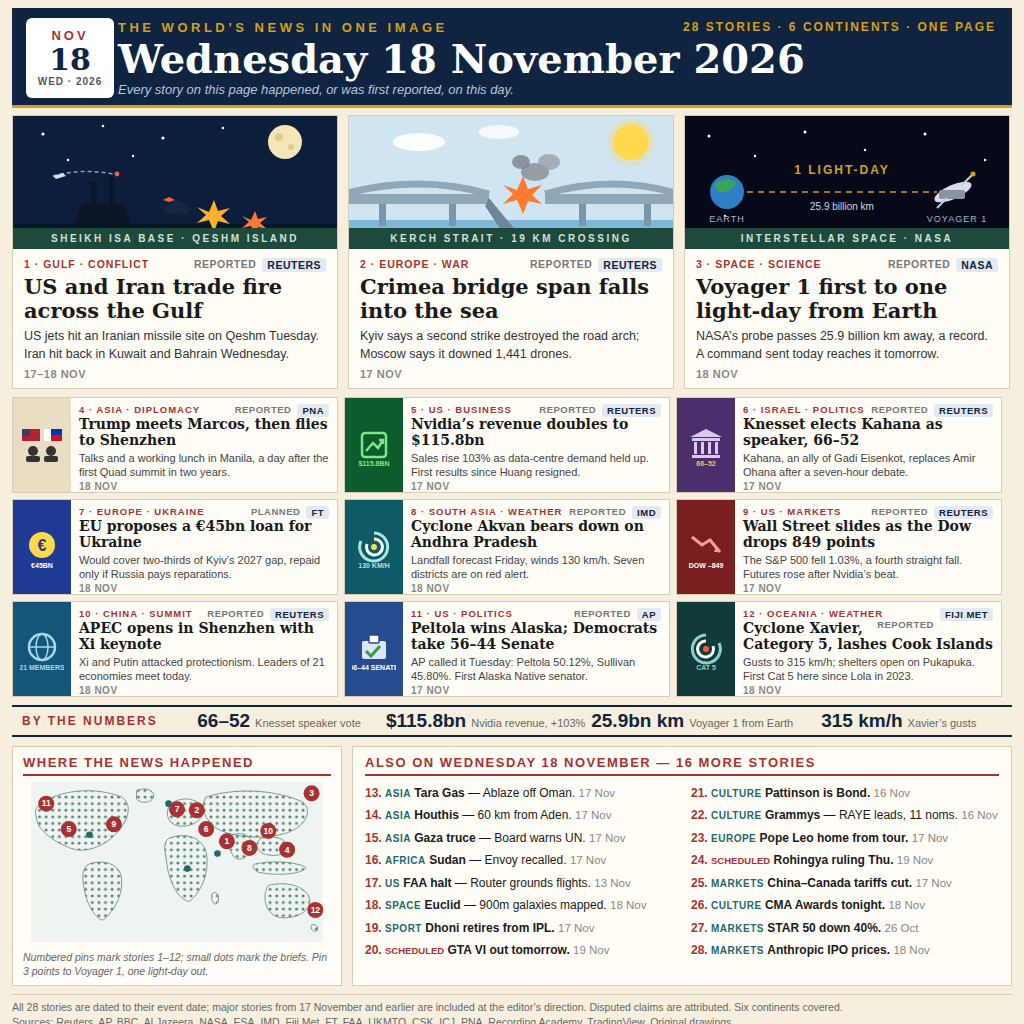
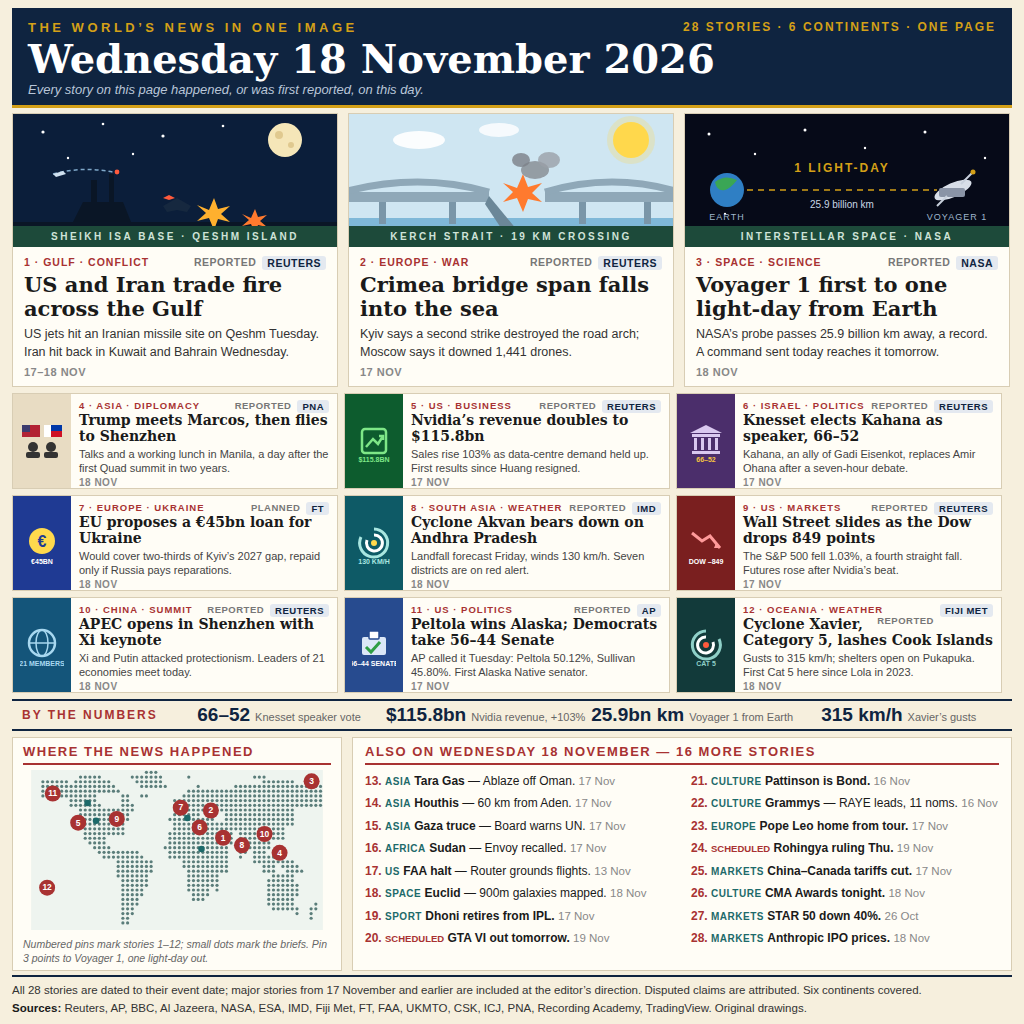
Redraw the world map; readable footer; remove masthead calendar block

Changed region(s): [[0.0, 0.0, 1.0, 1.0]]

diff --git a/page.html b/page.html
@@ -7,18 +7,14 @@ body { background:#f6efdd; font-family:'Helvetica Neue', Arial, 'DejaVu Sans', s
 .page { width:1024px; height:1024px; padding:8px 12px 4px; }
 .serif { font-family:Georgia, 'DejaVu Serif', 'Noto Serif', serif; }
 /* ---------- masthead ---------- */
-.mast { background:#0f2440; color:#fff; height:100px; padding:12px 16px 8px 14px; position:relative; border-bottom:3px solid #d4a017; }
-.cal { position:absolute; left:14px; top:10px; width:88px; height:80px; background:#fff; border-radius:6px; text-align:center; color:#0f2440; display:flex; flex-direction:column; align-items:center; justify-content:center; padding:5px 0; }
-.cal .m { color:#a83232; font-weight:800; font-size:13px; letter-spacing:3px; line-height:1.25; }
-.cal .d { font-size:30px; font-weight:800; line-height:1.05; }
-.cal .y { font-size:10px; font-weight:700; letter-spacing:1px; color:#555; line-height:1.25; }
-.mast-in { margin-left:92px; }
+.mast { background:#0f2440; color:#fff; height:100px; padding:12px 16px 8px 16px; position:relative; border-bottom:3px solid #d4a017; }
+.mast-in { }
 .kick { color:#d4a017; font-size:13px; font-weight:800; letter-spacing:3.5px; }
 .kick .cnt { float:right; color:#d4a017; font-size:12px; letter-spacing:2px; }
 .date { font-size:40px; font-weight:800; line-height:1.08; margin-top:2px; }
 .sub { font-style:italic; color:#b9c6d8; font-size:13px; margin-top:2px; }
 /* ---------- leads ---------- */
-.leads { display:flex; gap:10px; margin-top:7px; }
+.leads { display:flex; gap:10px; margin-top:5px; }
 .lead { width:326px; background:#fffdf6; border:1px solid #d8cdb4; }
 .lead .art { width:324px; height:112px; display:block; }
 .cap { background:#1d4a3a; color:#cfe3d8; font-size:10px; letter-spacing:2.5px; text-align:center; padding:5px 0; font-weight:700; }
@@ -30,7 +26,7 @@ body { background:#f6efdd; font-family:'Helvetica Neue', Arial, 'DejaVu Sans', s
 .lead p { font-size:12.5px; line-height:1.38; color:#333; }
 .dt { font-size:11px; font-weight:800; color:#888; margin-top:5px; letter-spacing:0.5px; }
 /* ---------- secondaries ---------- */
-.sec { display:flex; flex-wrap:wrap; gap:6px; margin-top:8px; }
+.sec { display:flex; flex-wrap:wrap; gap:6px; margin-top:6px; }
 .cell { width:326px; height:96px; background:#fffdf6; border:1px solid #d8cdb4; display:flex; }
 .chip { width:58px; height:94px; flex:none; display:flex; align-items:center; justify-content:center; }
 .cell .tx { padding:6px 8px 5px 8px; flex:1; min-width:0; }
@@ -39,18 +35,18 @@ body { background:#f6efdd; font-family:'Helvetica Neue', Arial, 'DejaVu Sans', s
 .cell p { font-size:11px; line-height:1.3; color:#444; }
 .cell .dt { margin-top:2px; font-size:10px; }
 /* ---------- numbers ---------- */
-.nums { display:flex; align-items:center; border-top:2px solid #0f2440; border-bottom:2px solid #0f2440; margin-top:8px; height:32px; padding:0 10px; }
+.nums { display:flex; align-items:center; border-top:2px solid #0f2440; border-bottom:2px solid #0f2440; margin-top:6px; height:32px; padding:0 10px; }
 .nums .lbl { color:#a83232; font-weight:800; font-size:12px; letter-spacing:2px; margin-right:18px; }
 .num { flex:1; text-align:center; }
 .num b { font-size:19px; color:#0f2440; }
 .num span { font-size:11px; color:#666; margin-left:5px; }
 /* ---------- bottom ---------- */
-.bot { display:flex; gap:10px; margin-top:9px; }
-.mapbox { width:330px; background:#fffdf6; border:1px solid #d8cdb4; padding:8px 10px 7px; }
-.mapbox h4, .briefs h4 { color:#a83232; font-size:13px; letter-spacing:1.5px; border-bottom:2px solid #a83232; padding-bottom:4px; margin-bottom:6px; }
-.mapcap { font-size:10.5px; color:#666; font-style:italic; margin-top:4px; line-height:1.35; }
+.bot { display:flex; gap:10px; margin-top:6px; }
+.mapbox { width:330px; background:#fffdf6; border:1px solid #d8cdb4; padding:6px 10px 5px; }
+.mapbox h4, .briefs h4 { color:#a83232; font-size:13px; letter-spacing:1.5px; border-bottom:2px solid #a83232; padding-bottom:4px; margin-bottom:5px; }
+.mapcap { font-size:10.5px; color:#666; font-style:italic; margin-top:3px; line-height:1.35; }
 .cont { font-size:12px; font-weight:800; color:#0f2440; margin-top:5px; }
-.briefs { flex:1; background:#fffdf6; border:1px solid #d8cdb4; padding:8px 12px 7px; }
+.briefs { flex:1; background:#fffdf6; border:1px solid #d8cdb4; padding:6px 12px 5px; }
 .bcols { display:flex; gap:18px; }
 .bcol { flex:1; }
 .brief { font-size:12px; line-height:1.35; padding:3px 0; white-space:nowrap; } border-bottom:1px solid #eee3cb; }
@@ -61,12 +57,12 @@ body { background:#f6efdd; font-family:'Helvetica Neue', Arial, 'DejaVu Sans', s
 .brief .dd { color:#888; font-size:11.5px; }
 .brief .sch { color:#a83232; font-weight:800; font-size:9.5px; }
 /* ---------- footer ---------- */
-.foot { margin-top:8px; font-size:10.5px; color:#666; line-height:1.45; border-top:1px solid #d8cdb4; padding-top:5px; }
+.foot { margin-top:4px; font-size:11.5px; color:#333; line-height:1.55; border-top:2px solid #0f2440; padding-top:5px; }
+.foot b { color:#1a1a1a; }
 </style></head>
 <body><div class="page">
 
 <div class="mast">
-  <div class="cal"><div class="m">NOV</div><div class="d serif">18</div><div class="y">WED · 2026</div></div>
   <div class="mast-in">
     <div class="kick">THE WORLD&rsquo;S NEWS IN ONE IMAGE <span class="cnt">28 STORIES &middot; 6 CONTINENTS &middot; ONE PAGE</span></div>
     <div class="date serif">Wednesday 18 November 2026</div>
@@ -211,37 +207,10 @@ body { background:#f6efdd; font-family:'Helvetica Neue', Arial, 'DejaVu Sans', s
   <div class="mapbox">
     <h4>WHERE THE NEWS HAPPENED</h4>
     <svg width="308" height="160" viewBox="0 0 310 170" xmlns="http://www.w3.org/2000/svg">
-      <defs><pattern id="dots" width="7" height="7" patternUnits="userSpaceOnUse"><circle cx="2" cy="2" r="1.6" fill="#5a7d7a"/></pattern></defs>
       <rect width="310" height="170" fill="#eef4ef"/>
-      <g fill="url(#dots)" stroke="#5a7d7a" stroke-width="0.8">
-        <path d="M8,25 C30,7 70,5 96,16 C108,23 104,40 92,53 C80,67 60,76 44,71 C26,65 8,52 6,40 C4,32 4,29 8,25 Z"/>
-        <path d="M112,9 C122,5 132,9 130,16 C128,23 116,23 112,18 Z"/>
-        <path d="M62,87 C78,82 94,87 96,102 C98,120 88,138 76,147 C66,143 58,127 56,111 C54,100 54,91 62,87 Z"/>
-        <path d="M148,23 C162,14 180,18 182,29 C184,40 172,47 160,47 C148,47 140,36 148,23 Z"/>
-        <path d="M146,60 C162,53 182,58 186,75 C190,94 182,116 168,127 C156,125 146,105 144,85 C142,72 140,65 146,60 Z"/>
-        <path d="M186,16 C220,5 262,9 288,21 C300,30 292,47 272,54 C250,61 220,60 200,51 C186,43 178,27 186,16 Z"/>
-        <path d="M214,56 C226,52 236,58 234,69 C232,80 222,85 216,80 C210,73 208,62 214,56 Z"/>
-        <path d="M244,60 C258,56 272,60 272,69 C272,78 258,80 246,76 C238,71 238,64 244,60 Z"/>
-        <path d="M238,87 C258,83 284,85 292,91 C288,98 262,100 242,96 C236,93 234,89 238,87 Z"/>
-        <path d="M252,110 C270,105 292,110 296,124 C298,137 282,146 264,144 C250,141 244,123 252,110 Z"/>
-        <path d="M298,152 C302,150 306,154 304,158 C300,160 296,156 298,152 Z"/>
-        <path d="M192,119 C196,115 200,119 199,126 C197,132 193,130 192,124 Z"/>
-      </g>
-      <g fill="#1d6a6a"><circle cx="166" cy="92" r="3.5"/><circle cx="198" cy="76" r="3.5"/><circle cx="146" cy="23" r="3.5"/><circle cx="62" cy="56" r="3.5"/></g>
-      <g font-family="Arial" font-size="9" font-weight="bold" fill="#fff" text-anchor="middle">
-        <g><circle cx="16" cy="23" r="8.5" fill="#a83232"/><text x="16" y="26">11</text></g>
-        <g><circle cx="40" cy="50" r="8.5" fill="#a83232"/><text x="40" y="53">5</text></g>
-        <g><circle cx="88" cy="45" r="8.5" fill="#a83232"/><text x="88" y="48">9</text></g>
-        <g><circle cx="155" cy="29" r="8.5" fill="#a83232"/><text x="155" y="32">7</text></g>
-        <g><circle cx="176" cy="30" r="8.5" fill="#a83232"/><text x="176" y="33">2</text></g>
-        <g><circle cx="186" cy="50" r="8.5" fill="#a83232"/><text x="186" y="53">6</text></g>
-        <g><circle cx="208" cy="63" r="8.5" fill="#a83232"/><text x="208" y="66">1</text></g>
-        <g><circle cx="232" cy="70" r="8.5" fill="#a83232"/><text x="232" y="73">8</text></g>
-        <g><circle cx="252" cy="52" r="8.5" fill="#a83232"/><text x="252" y="55">10</text></g>
-        <g><circle cx="272" cy="72" r="8.5" fill="#a83232"/><text x="272" y="75">4</text></g>
-        <g><circle cx="302" cy="136" r="8.5" fill="#a83232"/><text x="302" y="139">12</text></g>
-        <g><circle cx="298" cy="12" r="8.5" fill="#a83232"/><text x="298" y="15">3</text></g>
-      </g>
+      <g fill="#5a7d7a"><circle cx="122.5" cy="2.5" r="1.7"/><circle cx="127.5" cy="2.5" r="1.7"/><circle cx="132.5" cy="2.5" r="1.7"/><circle cx="52.5" cy="7.5" r="1.7"/><circle cx="57.5" cy="7.5" r="1.7"/><circle cx="62.5" cy="7.5" r="1.7"/><circle cx="67.5" cy="7.5" r="1.7"/><circle cx="72.5" cy="7.5" r="1.7"/><circle cx="107.5" cy="7.5" r="1.7"/><circle cx="112.5" cy="7.5" r="1.7"/><circle cx="117.5" cy="7.5" r="1.7"/><circle cx="122.5" cy="7.5" r="1.7"/><circle cx="127.5" cy="7.5" r="1.7"/><circle cx="132.5" cy="7.5" r="1.7"/><circle cx="137.5" cy="7.5" r="1.7"/><circle cx="167.5" cy="7.5" r="1.7"/><circle cx="237.5" cy="7.5" r="1.7"/><circle cx="242.5" cy="7.5" r="1.7"/><circle cx="247.5" cy="7.5" r="1.7"/><circle cx="12.5" cy="12.5" r="1.7"/><circle cx="17.5" cy="12.5" r="1.7"/><circle cx="22.5" cy="12.5" r="1.7"/><circle cx="27.5" cy="12.5" r="1.7"/><circle cx="32.5" cy="12.5" r="1.7"/><circle cx="37.5" cy="12.5" r="1.7"/><circle cx="47.5" cy="12.5" r="1.7"/><circle cx="52.5" cy="12.5" r="1.7"/><circle cx="57.5" cy="12.5" r="1.7"/><circle cx="62.5" cy="12.5" r="1.7"/><circle cx="67.5" cy="12.5" r="1.7"/><circle cx="72.5" cy="12.5" r="1.7"/><circle cx="77.5" cy="12.5" r="1.7"/><circle cx="82.5" cy="12.5" r="1.7"/><circle cx="112.5" cy="12.5" r="1.7"/><circle cx="117.5" cy="12.5" r="1.7"/><circle cx="122.5" cy="12.5" r="1.7"/><circle cx="127.5" cy="12.5" r="1.7"/><circle cx="132.5" cy="12.5" r="1.7"/><circle cx="137.5" cy="12.5" r="1.7"/><circle cx="247.5" cy="12.5" r="1.7"/><circle cx="252.5" cy="12.5" r="1.7"/><circle cx="257.5" cy="12.5" r="1.7"/><circle cx="262.5" cy="12.5" r="1.7"/><circle cx="267.5" cy="12.5" r="1.7"/><circle cx="272.5" cy="12.5" r="1.7"/><circle cx="277.5" cy="12.5" r="1.7"/><circle cx="12.5" cy="17.5" r="1.7"/><circle cx="17.5" cy="17.5" r="1.7"/><circle cx="22.5" cy="17.5" r="1.7"/><circle cx="27.5" cy="17.5" r="1.7"/><circle cx="32.5" cy="17.5" r="1.7"/><circle cx="37.5" cy="17.5" r="1.7"/><circle cx="42.5" cy="17.5" r="1.7"/><circle cx="47.5" cy="17.5" r="1.7"/><circle cx="52.5" cy="17.5" r="1.7"/><circle cx="57.5" cy="17.5" r="1.7"/><circle cx="62.5" cy="17.5" r="1.7"/><circle cx="67.5" cy="17.5" r="1.7"/><circle cx="72.5" cy="17.5" r="1.7"/><circle cx="77.5" cy="17.5" r="1.7"/><circle cx="82.5" cy="17.5" r="1.7"/><circle cx="87.5" cy="17.5" r="1.7"/><circle cx="117.5" cy="17.5" r="1.7"/><circle cx="122.5" cy="17.5" r="1.7"/><circle cx="127.5" cy="17.5" r="1.7"/><circle cx="132.5" cy="17.5" r="1.7"/><circle cx="137.5" cy="17.5" r="1.7"/><circle cx="142.5" cy="17.5" r="1.7"/><circle cx="177.5" cy="17.5" r="1.7"/><circle cx="217.5" cy="17.5" r="1.7"/><circle cx="222.5" cy="17.5" r="1.7"/><circle cx="227.5" cy="17.5" r="1.7"/><circle cx="232.5" cy="17.5" r="1.7"/><circle cx="237.5" cy="17.5" r="1.7"/><circle cx="242.5" cy="17.5" r="1.7"/><circle cx="247.5" cy="17.5" r="1.7"/><circle cx="252.5" cy="17.5" r="1.7"/><circle cx="257.5" cy="17.5" r="1.7"/><circle cx="262.5" cy="17.5" r="1.7"/><circle cx="267.5" cy="17.5" r="1.7"/><circle cx="272.5" cy="17.5" r="1.7"/><circle cx="277.5" cy="17.5" r="1.7"/><circle cx="282.5" cy="17.5" r="1.7"/><circle cx="287.5" cy="17.5" r="1.7"/><circle cx="292.5" cy="17.5" r="1.7"/><circle cx="297.5" cy="17.5" r="1.7"/><circle cx="302.5" cy="17.5" r="1.7"/><circle cx="307.5" cy="17.5" r="1.7"/><circle cx="12.5" cy="22.5" r="1.7"/><circle cx="17.5" cy="22.5" r="1.7"/><circle cx="22.5" cy="22.5" r="1.7"/><circle cx="27.5" cy="22.5" r="1.7"/><circle cx="32.5" cy="22.5" r="1.7"/><circle cx="37.5" cy="22.5" r="1.7"/><circle cx="42.5" cy="22.5" r="1.7"/><circle cx="47.5" cy="22.5" r="1.7"/><circle cx="52.5" cy="22.5" r="1.7"/><circle cx="57.5" cy="22.5" r="1.7"/><circle cx="62.5" cy="22.5" r="1.7"/><circle cx="67.5" cy="22.5" r="1.7"/><circle cx="72.5" cy="22.5" r="1.7"/><circle cx="77.5" cy="22.5" r="1.7"/><circle cx="82.5" cy="22.5" r="1.7"/><circle cx="87.5" cy="22.5" r="1.7"/><circle cx="92.5" cy="22.5" r="1.7"/><circle cx="167.5" cy="22.5" r="1.7"/><circle cx="172.5" cy="22.5" r="1.7"/><circle cx="177.5" cy="22.5" r="1.7"/><circle cx="182.5" cy="22.5" r="1.7"/><circle cx="187.5" cy="22.5" r="1.7"/><circle cx="192.5" cy="22.5" r="1.7"/><circle cx="197.5" cy="22.5" r="1.7"/><circle cx="202.5" cy="22.5" r="1.7"/><circle cx="207.5" cy="22.5" r="1.7"/><circle cx="212.5" cy="22.5" r="1.7"/><circle cx="217.5" cy="22.5" r="1.7"/><circle cx="222.5" cy="22.5" r="1.7"/><circle cx="227.5" cy="22.5" r="1.7"/><circle cx="232.5" cy="22.5" r="1.7"/><circle cx="237.5" cy="22.5" r="1.7"/><circle cx="242.5" cy="22.5" r="1.7"/><circle cx="247.5" cy="22.5" r="1.7"/><circle cx="252.5" cy="22.5" r="1.7"/><circle cx="257.5" cy="22.5" r="1.7"/><circle cx="262.5" cy="22.5" r="1.7"/><circle cx="267.5" cy="22.5" r="1.7"/><circle cx="272.5" cy="22.5" r="1.7"/><circle cx="277.5" cy="22.5" r="1.7"/><circle cx="282.5" cy="22.5" r="1.7"/><circle cx="287.5" cy="22.5" r="1.7"/><circle cx="292.5" cy="22.5" r="1.7"/><circle cx="297.5" cy="22.5" r="1.7"/><circle cx="302.5" cy="22.5" r="1.7"/><circle cx="307.5" cy="22.5" r="1.7"/><circle cx="12.5" cy="27.5" r="1.7"/><circle cx="17.5" cy="27.5" r="1.7"/><circle cx="22.5" cy="27.5" r="1.7"/><circle cx="27.5" cy="27.5" r="1.7"/><circle cx="32.5" cy="27.5" r="1.7"/><circle cx="37.5" cy="27.5" r="1.7"/><circle cx="42.5" cy="27.5" r="1.7"/><circle cx="47.5" cy="27.5" r="1.7"/><circle cx="52.5" cy="27.5" r="1.7"/><circle cx="57.5" cy="27.5" r="1.7"/><circle cx="62.5" cy="27.5" r="1.7"/><circle cx="67.5" cy="27.5" r="1.7"/><circle cx="97.5" cy="27.5" r="1.7"/><circle cx="102.5" cy="27.5" r="1.7"/><circle cx="117.5" cy="27.5" r="1.7"/><circle cx="122.5" cy="27.5" r="1.7"/><circle cx="162.5" cy="27.5" r="1.7"/><circle cx="167.5" cy="27.5" r="1.7"/><circle cx="172.5" cy="27.5" r="1.7"/><circle cx="177.5" cy="27.5" r="1.7"/><circle cx="182.5" cy="27.5" r="1.7"/><circle cx="187.5" cy="27.5" r="1.7"/><circle cx="192.5" cy="27.5" r="1.7"/><circle cx="197.5" cy="27.5" r="1.7"/><circle cx="202.5" cy="27.5" r="1.7"/><circle cx="207.5" cy="27.5" r="1.7"/><circle cx="212.5" cy="27.5" r="1.7"/><circle cx="217.5" cy="27.5" r="1.7"/><circle cx="222.5" cy="27.5" r="1.7"/><circle cx="227.5" cy="27.5" r="1.7"/><circle cx="232.5" cy="27.5" r="1.7"/><circle cx="237.5" cy="27.5" r="1.7"/><circle cx="242.5" cy="27.5" r="1.7"/><circle cx="247.5" cy="27.5" r="1.7"/><circle cx="252.5" cy="27.5" r="1.7"/><circle cx="257.5" cy="27.5" r="1.7"/><circle cx="262.5" cy="27.5" r="1.7"/><circle cx="267.5" cy="27.5" r="1.7"/><circle cx="272.5" cy="27.5" r="1.7"/><circle cx="277.5" cy="27.5" r="1.7"/><circle cx="282.5" cy="27.5" r="1.7"/><circle cx="287.5" cy="27.5" r="1.7"/><circle cx="292.5" cy="27.5" r="1.7"/><circle cx="297.5" cy="27.5" r="1.7"/><circle cx="302.5" cy="27.5" r="1.7"/><circle cx="307.5" cy="27.5" r="1.7"/><circle cx="42.5" cy="32.5" r="1.7"/><circle cx="47.5" cy="32.5" r="1.7"/><circle cx="52.5" cy="32.5" r="1.7"/><circle cx="57.5" cy="32.5" r="1.7"/><circle cx="62.5" cy="32.5" r="1.7"/><circle cx="67.5" cy="32.5" r="1.7"/><circle cx="97.5" cy="32.5" r="1.7"/><circle cx="102.5" cy="32.5" r="1.7"/><circle cx="152.5" cy="32.5" r="1.7"/><circle cx="157.5" cy="32.5" r="1.7"/><circle cx="162.5" cy="32.5" r="1.7"/><circle cx="167.5" cy="32.5" r="1.7"/><circle cx="172.5" cy="32.5" r="1.7"/><circle cx="177.5" cy="32.5" r="1.7"/><circle cx="182.5" cy="32.5" r="1.7"/><circle cx="187.5" cy="32.5" r="1.7"/><circle cx="192.5" cy="32.5" r="1.7"/><circle cx="197.5" cy="32.5" r="1.7"/><circle cx="202.5" cy="32.5" r="1.7"/><circle cx="207.5" cy="32.5" r="1.7"/><circle cx="212.5" cy="32.5" r="1.7"/><circle cx="217.5" cy="32.5" r="1.7"/><circle cx="222.5" cy="32.5" r="1.7"/><circle cx="227.5" cy="32.5" r="1.7"/><circle cx="232.5" cy="32.5" r="1.7"/><circle cx="237.5" cy="32.5" r="1.7"/><circle cx="242.5" cy="32.5" r="1.7"/><circle cx="247.5" cy="32.5" r="1.7"/><circle cx="252.5" cy="32.5" r="1.7"/><circle cx="257.5" cy="32.5" r="1.7"/><circle cx="262.5" cy="32.5" r="1.7"/><circle cx="267.5" cy="32.5" r="1.7"/><circle cx="272.5" cy="32.5" r="1.7"/><circle cx="277.5" cy="32.5" r="1.7"/><circle cx="282.5" cy="32.5" r="1.7"/><circle cx="287.5" cy="32.5" r="1.7"/><circle cx="292.5" cy="32.5" r="1.7"/><circle cx="297.5" cy="32.5" r="1.7"/><circle cx="302.5" cy="32.5" r="1.7"/><circle cx="307.5" cy="32.5" r="1.7"/><circle cx="42.5" cy="37.5" r="1.7"/><circle cx="47.5" cy="37.5" r="1.7"/><circle cx="52.5" cy="37.5" r="1.7"/><circle cx="57.5" cy="37.5" r="1.7"/><circle cx="62.5" cy="37.5" r="1.7"/><circle cx="67.5" cy="37.5" r="1.7"/><circle cx="72.5" cy="37.5" r="1.7"/><circle cx="97.5" cy="37.5" r="1.7"/><circle cx="102.5" cy="37.5" r="1.7"/><circle cx="107.5" cy="37.5" r="1.7"/><circle cx="152.5" cy="37.5" r="1.7"/><circle cx="162.5" cy="37.5" r="1.7"/><circle cx="167.5" cy="37.5" r="1.7"/><circle cx="172.5" cy="37.5" r="1.7"/><circle cx="177.5" cy="37.5" r="1.7"/><circle cx="182.5" cy="37.5" r="1.7"/><circle cx="187.5" cy="37.5" r="1.7"/><circle cx="192.5" cy="37.5" r="1.7"/><circle cx="197.5" cy="37.5" r="1.7"/><circle cx="202.5" cy="37.5" r="1.7"/><circle cx="207.5" cy="37.5" r="1.7"/><circle cx="212.5" cy="37.5" r="1.7"/><circle cx="217.5" cy="37.5" r="1.7"/><circle cx="222.5" cy="37.5" r="1.7"/><circle cx="227.5" cy="37.5" r="1.7"/><circle cx="232.5" cy="37.5" r="1.7"/><circle cx="237.5" cy="37.5" r="1.7"/><circle cx="242.5" cy="37.5" r="1.7"/><circle cx="247.5" cy="37.5" r="1.7"/><circle cx="252.5" cy="37.5" r="1.7"/><circle cx="257.5" cy="37.5" r="1.7"/><circle cx="262.5" cy="37.5" r="1.7"/><circle cx="267.5" cy="37.5" r="1.7"/><circle cx="272.5" cy="37.5" r="1.7"/><circle cx="277.5" cy="37.5" r="1.7"/><circle cx="282.5" cy="37.5" r="1.7"/><circle cx="287.5" cy="37.5" r="1.7"/><circle cx="292.5" cy="37.5" r="1.7"/><circle cx="297.5" cy="37.5" r="1.7"/><circle cx="302.5" cy="37.5" r="1.7"/><circle cx="307.5" cy="37.5" r="1.7"/><circle cx="52.5" cy="42.5" r="1.7"/><circle cx="57.5" cy="42.5" r="1.7"/><circle cx="62.5" cy="42.5" r="1.7"/><circle cx="67.5" cy="42.5" r="1.7"/><circle cx="72.5" cy="42.5" r="1.7"/><circle cx="77.5" cy="42.5" r="1.7"/><circle cx="82.5" cy="42.5" r="1.7"/><circle cx="87.5" cy="42.5" r="1.7"/><circle cx="92.5" cy="42.5" r="1.7"/><circle cx="97.5" cy="42.5" r="1.7"/><circle cx="102.5" cy="42.5" r="1.7"/><circle cx="107.5" cy="42.5" r="1.7"/><circle cx="162.5" cy="42.5" r="1.7"/><circle cx="167.5" cy="42.5" r="1.7"/><circle cx="172.5" cy="42.5" r="1.7"/><circle cx="177.5" cy="42.5" r="1.7"/><circle cx="182.5" cy="42.5" r="1.7"/><circle cx="187.5" cy="42.5" r="1.7"/><circle cx="192.5" cy="42.5" r="1.7"/><circle cx="197.5" cy="42.5" r="1.7"/><circle cx="202.5" cy="42.5" r="1.7"/><circle cx="207.5" cy="42.5" r="1.7"/><circle cx="212.5" cy="42.5" r="1.7"/><circle cx="217.5" cy="42.5" r="1.7"/><circle cx="222.5" cy="42.5" r="1.7"/><circle cx="227.5" cy="42.5" r="1.7"/><circle cx="232.5" cy="42.5" r="1.7"/><circle cx="237.5" cy="42.5" r="1.7"/><circle cx="242.5" cy="42.5" r="1.7"/><circle cx="247.5" cy="42.5" r="1.7"/><circle cx="252.5" cy="42.5" r="1.7"/><circle cx="257.5" cy="42.5" r="1.7"/><circle cx="262.5" cy="42.5" r="1.7"/><circle cx="267.5" cy="42.5" r="1.7"/><circle cx="272.5" cy="42.5" r="1.7"/><circle cx="277.5" cy="42.5" r="1.7"/><circle cx="52.5" cy="47.5" r="1.7"/><circle cx="57.5" cy="47.5" r="1.7"/><circle cx="62.5" cy="47.5" r="1.7"/><circle cx="67.5" cy="47.5" r="1.7"/><circle cx="72.5" cy="47.5" r="1.7"/><circle cx="77.5" cy="47.5" r="1.7"/><circle cx="82.5" cy="47.5" r="1.7"/><circle cx="87.5" cy="47.5" r="1.7"/><circle cx="92.5" cy="47.5" r="1.7"/><circle cx="97.5" cy="47.5" r="1.7"/><circle cx="102.5" cy="47.5" r="1.7"/><circle cx="152.5" cy="47.5" r="1.7"/><circle cx="157.5" cy="47.5" r="1.7"/><circle cx="162.5" cy="47.5" r="1.7"/><circle cx="167.5" cy="47.5" r="1.7"/><circle cx="172.5" cy="47.5" r="1.7"/><circle cx="177.5" cy="47.5" r="1.7"/><circle cx="192.5" cy="47.5" r="1.7"/><circle cx="207.5" cy="47.5" r="1.7"/><circle cx="212.5" cy="47.5" r="1.7"/><circle cx="217.5" cy="47.5" r="1.7"/><circle cx="222.5" cy="47.5" r="1.7"/><circle cx="227.5" cy="47.5" r="1.7"/><circle cx="232.5" cy="47.5" r="1.7"/><circle cx="237.5" cy="47.5" r="1.7"/><circle cx="242.5" cy="47.5" r="1.7"/><circle cx="247.5" cy="47.5" r="1.7"/><circle cx="252.5" cy="47.5" r="1.7"/><circle cx="257.5" cy="47.5" r="1.7"/><circle cx="262.5" cy="47.5" r="1.7"/><circle cx="267.5" cy="47.5" r="1.7"/><circle cx="272.5" cy="47.5" r="1.7"/><circle cx="277.5" cy="47.5" r="1.7"/><circle cx="52.5" cy="52.5" r="1.7"/><circle cx="57.5" cy="52.5" r="1.7"/><circle cx="62.5" cy="52.5" r="1.7"/><circle cx="67.5" cy="52.5" r="1.7"/><circle cx="72.5" cy="52.5" r="1.7"/><circle cx="77.5" cy="52.5" r="1.7"/><circle cx="82.5" cy="52.5" r="1.7"/><circle cx="87.5" cy="52.5" r="1.7"/><circle cx="92.5" cy="52.5" r="1.7"/><circle cx="97.5" cy="52.5" r="1.7"/><circle cx="102.5" cy="52.5" r="1.7"/><circle cx="147.5" cy="52.5" r="1.7"/><circle cx="152.5" cy="52.5" r="1.7"/><circle cx="157.5" cy="52.5" r="1.7"/><circle cx="162.5" cy="52.5" r="1.7"/><circle cx="167.5" cy="52.5" r="1.7"/><circle cx="172.5" cy="52.5" r="1.7"/><circle cx="177.5" cy="52.5" r="1.7"/><circle cx="182.5" cy="52.5" r="1.7"/><circle cx="187.5" cy="52.5" r="1.7"/><circle cx="192.5" cy="52.5" r="1.7"/><circle cx="207.5" cy="52.5" r="1.7"/><circle cx="212.5" cy="52.5" r="1.7"/><circle cx="217.5" cy="52.5" r="1.7"/><circle cx="222.5" cy="52.5" r="1.7"/><circle cx="227.5" cy="52.5" r="1.7"/><circle cx="232.5" cy="52.5" r="1.7"/><circle cx="237.5" cy="52.5" r="1.7"/><circle cx="242.5" cy="52.5" r="1.7"/><circle cx="247.5" cy="52.5" r="1.7"/><circle cx="252.5" cy="52.5" r="1.7"/><circle cx="257.5" cy="52.5" r="1.7"/><circle cx="262.5" cy="52.5" r="1.7"/><circle cx="267.5" cy="52.5" r="1.7"/><circle cx="272.5" cy="52.5" r="1.7"/><circle cx="277.5" cy="52.5" r="1.7"/><circle cx="52.5" cy="57.5" r="1.7"/><circle cx="57.5" cy="57.5" r="1.7"/><circle cx="62.5" cy="57.5" r="1.7"/><circle cx="67.5" cy="57.5" r="1.7"/><circle cx="72.5" cy="57.5" r="1.7"/><circle cx="77.5" cy="57.5" r="1.7"/><circle cx="82.5" cy="57.5" r="1.7"/><circle cx="87.5" cy="57.5" r="1.7"/><circle cx="92.5" cy="57.5" r="1.7"/><circle cx="97.5" cy="57.5" r="1.7"/><circle cx="152.5" cy="57.5" r="1.7"/><circle cx="157.5" cy="57.5" r="1.7"/><circle cx="162.5" cy="57.5" r="1.7"/><circle cx="167.5" cy="57.5" r="1.7"/><circle cx="172.5" cy="57.5" r="1.7"/><circle cx="177.5" cy="57.5" r="1.7"/><circle cx="182.5" cy="57.5" r="1.7"/><circle cx="187.5" cy="57.5" r="1.7"/><circle cx="192.5" cy="57.5" r="1.7"/><circle cx="197.5" cy="57.5" r="1.7"/><circle cx="202.5" cy="57.5" r="1.7"/><circle cx="207.5" cy="57.5" r="1.7"/><circle cx="212.5" cy="57.5" r="1.7"/><circle cx="217.5" cy="57.5" r="1.7"/><circle cx="222.5" cy="57.5" r="1.7"/><circle cx="227.5" cy="57.5" r="1.7"/><circle cx="232.5" cy="57.5" r="1.7"/><circle cx="237.5" cy="57.5" r="1.7"/><circle cx="242.5" cy="57.5" r="1.7"/><circle cx="247.5" cy="57.5" r="1.7"/><circle cx="252.5" cy="57.5" r="1.7"/><circle cx="257.5" cy="57.5" r="1.7"/><circle cx="262.5" cy="57.5" r="1.7"/><circle cx="267.5" cy="57.5" r="1.7"/><circle cx="272.5" cy="57.5" r="1.7"/><circle cx="277.5" cy="57.5" r="1.7"/><circle cx="57.5" cy="62.5" r="1.7"/><circle cx="62.5" cy="62.5" r="1.7"/><circle cx="67.5" cy="62.5" r="1.7"/><circle cx="72.5" cy="62.5" r="1.7"/><circle cx="77.5" cy="62.5" r="1.7"/><circle cx="82.5" cy="62.5" r="1.7"/><circle cx="87.5" cy="62.5" r="1.7"/><circle cx="92.5" cy="62.5" r="1.7"/><circle cx="97.5" cy="62.5" r="1.7"/><circle cx="152.5" cy="62.5" r="1.7"/><circle cx="157.5" cy="62.5" r="1.7"/><circle cx="162.5" cy="62.5" r="1.7"/><circle cx="167.5" cy="62.5" r="1.7"/><circle cx="172.5" cy="62.5" r="1.7"/><circle cx="177.5" cy="62.5" r="1.7"/><circle cx="182.5" cy="62.5" r="1.7"/><circle cx="187.5" cy="62.5" r="1.7"/><circle cx="192.5" cy="62.5" r="1.7"/><circle cx="197.5" cy="62.5" r="1.7"/><circle cx="202.5" cy="62.5" r="1.7"/><circle cx="207.5" cy="62.5" r="1.7"/><circle cx="212.5" cy="62.5" r="1.7"/><circle cx="217.5" cy="62.5" r="1.7"/><circle cx="222.5" cy="62.5" r="1.7"/><circle cx="227.5" cy="62.5" r="1.7"/><circle cx="232.5" cy="62.5" r="1.7"/><circle cx="237.5" cy="62.5" r="1.7"/><circle cx="242.5" cy="62.5" r="1.7"/><circle cx="247.5" cy="62.5" r="1.7"/><circle cx="252.5" cy="62.5" r="1.7"/><circle cx="257.5" cy="62.5" r="1.7"/><circle cx="262.5" cy="62.5" r="1.7"/><circle cx="267.5" cy="62.5" r="1.7"/><circle cx="57.5" cy="67.5" r="1.7"/><circle cx="62.5" cy="67.5" r="1.7"/><circle cx="67.5" cy="67.5" r="1.7"/><circle cx="72.5" cy="67.5" r="1.7"/><circle cx="77.5" cy="67.5" r="1.7"/><circle cx="82.5" cy="67.5" r="1.7"/><circle cx="87.5" cy="67.5" r="1.7"/><circle cx="92.5" cy="67.5" r="1.7"/><circle cx="97.5" cy="67.5" r="1.7"/><circle cx="147.5" cy="67.5" r="1.7"/><circle cx="152.5" cy="67.5" r="1.7"/><circle cx="157.5" cy="67.5" r="1.7"/><circle cx="162.5" cy="67.5" r="1.7"/><circle cx="167.5" cy="67.5" r="1.7"/><circle cx="172.5" cy="67.5" r="1.7"/><circle cx="177.5" cy="67.5" r="1.7"/><circle cx="182.5" cy="67.5" r="1.7"/><circle cx="187.5" cy="67.5" r="1.7"/><circle cx="192.5" cy="67.5" r="1.7"/><circle cx="197.5" cy="67.5" r="1.7"/><circle cx="202.5" cy="67.5" r="1.7"/><circle cx="207.5" cy="67.5" r="1.7"/><circle cx="212.5" cy="67.5" r="1.7"/><circle cx="222.5" cy="67.5" r="1.7"/><circle cx="227.5" cy="67.5" r="1.7"/><circle cx="232.5" cy="67.5" r="1.7"/><circle cx="237.5" cy="67.5" r="1.7"/><circle cx="242.5" cy="67.5" r="1.7"/><circle cx="247.5" cy="67.5" r="1.7"/><circle cx="252.5" cy="67.5" r="1.7"/><circle cx="257.5" cy="67.5" r="1.7"/><circle cx="262.5" cy="67.5" r="1.7"/><circle cx="267.5" cy="67.5" r="1.7"/><circle cx="57.5" cy="72.5" r="1.7"/><circle cx="62.5" cy="72.5" r="1.7"/><circle cx="67.5" cy="72.5" r="1.7"/><circle cx="72.5" cy="72.5" r="1.7"/><circle cx="77.5" cy="72.5" r="1.7"/><circle cx="147.5" cy="72.5" r="1.7"/><circle cx="152.5" cy="72.5" r="1.7"/><circle cx="157.5" cy="72.5" r="1.7"/><circle cx="162.5" cy="72.5" r="1.7"/><circle cx="167.5" cy="72.5" r="1.7"/><circle cx="172.5" cy="72.5" r="1.7"/><circle cx="177.5" cy="72.5" r="1.7"/><circle cx="182.5" cy="72.5" r="1.7"/><circle cx="187.5" cy="72.5" r="1.7"/><circle cx="192.5" cy="72.5" r="1.7"/><circle cx="197.5" cy="72.5" r="1.7"/><circle cx="202.5" cy="72.5" r="1.7"/><circle cx="207.5" cy="72.5" r="1.7"/><circle cx="212.5" cy="72.5" r="1.7"/><circle cx="222.5" cy="72.5" r="1.7"/><circle cx="227.5" cy="72.5" r="1.7"/><circle cx="232.5" cy="72.5" r="1.7"/><circle cx="237.5" cy="72.5" r="1.7"/><circle cx="242.5" cy="72.5" r="1.7"/><circle cx="247.5" cy="72.5" r="1.7"/><circle cx="252.5" cy="72.5" r="1.7"/><circle cx="257.5" cy="72.5" r="1.7"/><circle cx="262.5" cy="72.5" r="1.7"/><circle cx="267.5" cy="72.5" r="1.7"/><circle cx="62.5" cy="77.5" r="1.7"/><circle cx="67.5" cy="77.5" r="1.7"/><circle cx="72.5" cy="77.5" r="1.7"/><circle cx="77.5" cy="77.5" r="1.7"/><circle cx="147.5" cy="77.5" r="1.7"/><circle cx="152.5" cy="77.5" r="1.7"/><circle cx="157.5" cy="77.5" r="1.7"/><circle cx="162.5" cy="77.5" r="1.7"/><circle cx="167.5" cy="77.5" r="1.7"/><circle cx="172.5" cy="77.5" r="1.7"/><circle cx="177.5" cy="77.5" r="1.7"/><circle cx="182.5" cy="77.5" r="1.7"/><circle cx="187.5" cy="77.5" r="1.7"/><circle cx="192.5" cy="77.5" r="1.7"/><circle cx="197.5" cy="77.5" r="1.7"/><circle cx="202.5" cy="77.5" r="1.7"/><circle cx="207.5" cy="77.5" r="1.7"/><circle cx="212.5" cy="77.5" r="1.7"/><circle cx="222.5" cy="77.5" r="1.7"/><circle cx="227.5" cy="77.5" r="1.7"/><circle cx="232.5" cy="77.5" r="1.7"/><circle cx="237.5" cy="77.5" r="1.7"/><circle cx="242.5" cy="77.5" r="1.7"/><circle cx="247.5" cy="77.5" r="1.7"/><circle cx="252.5" cy="77.5" r="1.7"/><circle cx="67.5" cy="82.5" r="1.7"/><circle cx="72.5" cy="82.5" r="1.7"/><circle cx="77.5" cy="82.5" r="1.7"/><circle cx="82.5" cy="82.5" r="1.7"/><circle cx="142.5" cy="82.5" r="1.7"/><circle cx="147.5" cy="82.5" r="1.7"/><circle cx="152.5" cy="82.5" r="1.7"/><circle cx="157.5" cy="82.5" r="1.7"/><circle cx="162.5" cy="82.5" r="1.7"/><circle cx="167.5" cy="82.5" r="1.7"/><circle cx="172.5" cy="82.5" r="1.7"/><circle cx="177.5" cy="82.5" r="1.7"/><circle cx="182.5" cy="82.5" r="1.7"/><circle cx="187.5" cy="82.5" r="1.7"/><circle cx="192.5" cy="82.5" r="1.7"/><circle cx="197.5" cy="82.5" r="1.7"/><circle cx="202.5" cy="82.5" r="1.7"/><circle cx="207.5" cy="82.5" r="1.7"/><circle cx="222.5" cy="82.5" r="1.7"/><circle cx="227.5" cy="82.5" r="1.7"/><circle cx="232.5" cy="82.5" r="1.7"/><circle cx="237.5" cy="82.5" r="1.7"/><circle cx="242.5" cy="82.5" r="1.7"/><circle cx="247.5" cy="82.5" r="1.7"/><circle cx="252.5" cy="82.5" r="1.7"/><circle cx="72.5" cy="87.5" r="1.7"/><circle cx="77.5" cy="87.5" r="1.7"/><circle cx="82.5" cy="87.5" r="1.7"/><circle cx="87.5" cy="87.5" r="1.7"/><circle cx="92.5" cy="87.5" r="1.7"/><circle cx="97.5" cy="87.5" r="1.7"/><circle cx="102.5" cy="87.5" r="1.7"/><circle cx="107.5" cy="87.5" r="1.7"/><circle cx="112.5" cy="87.5" r="1.7"/><circle cx="147.5" cy="87.5" r="1.7"/><circle cx="152.5" cy="87.5" r="1.7"/><circle cx="157.5" cy="87.5" r="1.7"/><circle cx="162.5" cy="87.5" r="1.7"/><circle cx="167.5" cy="87.5" r="1.7"/><circle cx="172.5" cy="87.5" r="1.7"/><circle cx="177.5" cy="87.5" r="1.7"/><circle cx="182.5" cy="87.5" r="1.7"/><circle cx="187.5" cy="87.5" r="1.7"/><circle cx="192.5" cy="87.5" r="1.7"/><circle cx="197.5" cy="87.5" r="1.7"/><circle cx="202.5" cy="87.5" r="1.7"/><circle cx="207.5" cy="87.5" r="1.7"/><circle cx="222.5" cy="87.5" r="1.7"/><circle cx="227.5" cy="87.5" r="1.7"/><circle cx="237.5" cy="87.5" r="1.7"/><circle cx="242.5" cy="87.5" r="1.7"/><circle cx="247.5" cy="87.5" r="1.7"/><circle cx="77.5" cy="92.5" r="1.7"/><circle cx="82.5" cy="92.5" r="1.7"/><circle cx="87.5" cy="92.5" r="1.7"/><circle cx="92.5" cy="92.5" r="1.7"/><circle cx="97.5" cy="92.5" r="1.7"/><circle cx="102.5" cy="92.5" r="1.7"/><circle cx="107.5" cy="92.5" r="1.7"/><circle cx="112.5" cy="92.5" r="1.7"/><circle cx="117.5" cy="92.5" r="1.7"/><circle cx="147.5" cy="92.5" r="1.7"/><circle cx="152.5" cy="92.5" r="1.7"/><circle cx="157.5" cy="92.5" r="1.7"/><circle cx="162.5" cy="92.5" r="1.7"/><circle cx="167.5" cy="92.5" r="1.7"/><circle cx="172.5" cy="92.5" r="1.7"/><circle cx="177.5" cy="92.5" r="1.7"/><circle cx="182.5" cy="92.5" r="1.7"/><circle cx="187.5" cy="92.5" r="1.7"/><circle cx="192.5" cy="92.5" r="1.7"/><circle cx="197.5" cy="92.5" r="1.7"/><circle cx="202.5" cy="92.5" r="1.7"/><circle cx="207.5" cy="92.5" r="1.7"/><circle cx="222.5" cy="92.5" r="1.7"/><circle cx="237.5" cy="92.5" r="1.7"/><circle cx="242.5" cy="92.5" r="1.7"/><circle cx="247.5" cy="92.5" r="1.7"/><circle cx="252.5" cy="92.5" r="1.7"/><circle cx="257.5" cy="92.5" r="1.7"/><circle cx="92.5" cy="97.5" r="1.7"/><circle cx="97.5" cy="97.5" r="1.7"/><circle cx="102.5" cy="97.5" r="1.7"/><circle cx="107.5" cy="97.5" r="1.7"/><circle cx="112.5" cy="97.5" r="1.7"/><circle cx="117.5" cy="97.5" r="1.7"/><circle cx="122.5" cy="97.5" r="1.7"/><circle cx="127.5" cy="97.5" r="1.7"/><circle cx="162.5" cy="97.5" r="1.7"/><circle cx="167.5" cy="97.5" r="1.7"/><circle cx="172.5" cy="97.5" r="1.7"/><circle cx="177.5" cy="97.5" r="1.7"/><circle cx="182.5" cy="97.5" r="1.7"/><circle cx="187.5" cy="97.5" r="1.7"/><circle cx="192.5" cy="97.5" r="1.7"/><circle cx="197.5" cy="97.5" r="1.7"/><circle cx="202.5" cy="97.5" r="1.7"/><circle cx="207.5" cy="97.5" r="1.7"/><circle cx="237.5" cy="97.5" r="1.7"/><circle cx="242.5" cy="97.5" r="1.7"/><circle cx="247.5" cy="97.5" r="1.7"/><circle cx="252.5" cy="97.5" r="1.7"/><circle cx="257.5" cy="97.5" r="1.7"/><circle cx="262.5" cy="97.5" r="1.7"/><circle cx="267.5" cy="97.5" r="1.7"/><circle cx="272.5" cy="97.5" r="1.7"/><circle cx="277.5" cy="97.5" r="1.7"/><circle cx="92.5" cy="102.5" r="1.7"/><circle cx="97.5" cy="102.5" r="1.7"/><circle cx="102.5" cy="102.5" r="1.7"/><circle cx="107.5" cy="102.5" r="1.7"/><circle cx="112.5" cy="102.5" r="1.7"/><circle cx="117.5" cy="102.5" r="1.7"/><circle cx="122.5" cy="102.5" r="1.7"/><circle cx="127.5" cy="102.5" r="1.7"/><circle cx="162.5" cy="102.5" r="1.7"/><circle cx="167.5" cy="102.5" r="1.7"/><circle cx="172.5" cy="102.5" r="1.7"/><circle cx="177.5" cy="102.5" r="1.7"/><circle cx="182.5" cy="102.5" r="1.7"/><circle cx="187.5" cy="102.5" r="1.7"/><circle cx="192.5" cy="102.5" r="1.7"/><circle cx="197.5" cy="102.5" r="1.7"/><circle cx="202.5" cy="102.5" r="1.7"/><circle cx="207.5" cy="102.5" r="1.7"/><circle cx="247.5" cy="102.5" r="1.7"/><circle cx="252.5" cy="102.5" r="1.7"/><circle cx="257.5" cy="102.5" r="1.7"/><circle cx="267.5" cy="102.5" r="1.7"/><circle cx="272.5" cy="102.5" r="1.7"/><circle cx="277.5" cy="102.5" r="1.7"/><circle cx="282.5" cy="102.5" r="1.7"/><circle cx="92.5" cy="107.5" r="1.7"/><circle cx="97.5" cy="107.5" r="1.7"/><circle cx="102.5" cy="107.5" r="1.7"/><circle cx="107.5" cy="107.5" r="1.7"/><circle cx="112.5" cy="107.5" r="1.7"/><circle cx="117.5" cy="107.5" r="1.7"/><circle cx="122.5" cy="107.5" r="1.7"/><circle cx="127.5" cy="107.5" r="1.7"/><circle cx="167.5" cy="107.5" r="1.7"/><circle cx="172.5" cy="107.5" r="1.7"/><circle cx="177.5" cy="107.5" r="1.7"/><circle cx="182.5" cy="107.5" r="1.7"/><circle cx="187.5" cy="107.5" r="1.7"/><circle cx="192.5" cy="107.5" r="1.7"/><circle cx="197.5" cy="107.5" r="1.7"/><circle cx="202.5" cy="107.5" r="1.7"/><circle cx="207.5" cy="107.5" r="1.7"/><circle cx="247.5" cy="107.5" r="1.7"/><circle cx="252.5" cy="107.5" r="1.7"/><circle cx="257.5" cy="107.5" r="1.7"/><circle cx="272.5" cy="107.5" r="1.7"/><circle cx="277.5" cy="107.5" r="1.7"/><circle cx="282.5" cy="107.5" r="1.7"/><circle cx="287.5" cy="107.5" r="1.7"/><circle cx="92.5" cy="112.5" r="1.7"/><circle cx="97.5" cy="112.5" r="1.7"/><circle cx="102.5" cy="112.5" r="1.7"/><circle cx="107.5" cy="112.5" r="1.7"/><circle cx="112.5" cy="112.5" r="1.7"/><circle cx="117.5" cy="112.5" r="1.7"/><circle cx="122.5" cy="112.5" r="1.7"/><circle cx="167.5" cy="112.5" r="1.7"/><circle cx="172.5" cy="112.5" r="1.7"/><circle cx="177.5" cy="112.5" r="1.7"/><circle cx="182.5" cy="112.5" r="1.7"/><circle cx="187.5" cy="112.5" r="1.7"/><circle cx="192.5" cy="112.5" r="1.7"/><circle cx="197.5" cy="112.5" r="1.7"/><circle cx="257.5" cy="112.5" r="1.7"/><circle cx="262.5" cy="112.5" r="1.7"/><circle cx="267.5" cy="112.5" r="1.7"/><circle cx="272.5" cy="112.5" r="1.7"/><circle cx="277.5" cy="112.5" r="1.7"/><circle cx="97.5" cy="117.5" r="1.7"/><circle cx="102.5" cy="117.5" r="1.7"/><circle cx="107.5" cy="117.5" r="1.7"/><circle cx="112.5" cy="117.5" r="1.7"/><circle cx="117.5" cy="117.5" r="1.7"/><circle cx="122.5" cy="117.5" r="1.7"/><circle cx="167.5" cy="117.5" r="1.7"/><circle cx="172.5" cy="117.5" r="1.7"/><circle cx="177.5" cy="117.5" r="1.7"/><circle cx="182.5" cy="117.5" r="1.7"/><circle cx="187.5" cy="117.5" r="1.7"/><circle cx="192.5" cy="117.5" r="1.7"/><circle cx="197.5" cy="117.5" r="1.7"/><circle cx="252.5" cy="117.5" r="1.7"/><circle cx="257.5" cy="117.5" r="1.7"/><circle cx="262.5" cy="117.5" r="1.7"/><circle cx="267.5" cy="117.5" r="1.7"/><circle cx="272.5" cy="117.5" r="1.7"/><circle cx="277.5" cy="117.5" r="1.7"/><circle cx="97.5" cy="122.5" r="1.7"/><circle cx="102.5" cy="122.5" r="1.7"/><circle cx="107.5" cy="122.5" r="1.7"/><circle cx="112.5" cy="122.5" r="1.7"/><circle cx="117.5" cy="122.5" r="1.7"/><circle cx="122.5" cy="122.5" r="1.7"/><circle cx="167.5" cy="122.5" r="1.7"/><circle cx="172.5" cy="122.5" r="1.7"/><circle cx="177.5" cy="122.5" r="1.7"/><circle cx="182.5" cy="122.5" r="1.7"/><circle cx="187.5" cy="122.5" r="1.7"/><circle cx="192.5" cy="122.5" r="1.7"/><circle cx="197.5" cy="122.5" r="1.7"/><circle cx="252.5" cy="122.5" r="1.7"/><circle cx="257.5" cy="122.5" r="1.7"/><circle cx="262.5" cy="122.5" r="1.7"/><circle cx="267.5" cy="122.5" r="1.7"/><circle cx="272.5" cy="122.5" r="1.7"/><circle cx="277.5" cy="122.5" r="1.7"/><circle cx="282.5" cy="122.5" r="1.7"/><circle cx="97.5" cy="127.5" r="1.7"/><circle cx="102.5" cy="127.5" r="1.7"/><circle cx="107.5" cy="127.5" r="1.7"/><circle cx="112.5" cy="127.5" r="1.7"/><circle cx="117.5" cy="127.5" r="1.7"/><circle cx="167.5" cy="127.5" r="1.7"/><circle cx="172.5" cy="127.5" r="1.7"/><circle cx="177.5" cy="127.5" r="1.7"/><circle cx="182.5" cy="127.5" r="1.7"/><circle cx="187.5" cy="127.5" r="1.7"/><circle cx="197.5" cy="127.5" r="1.7"/><circle cx="252.5" cy="127.5" r="1.7"/><circle cx="257.5" cy="127.5" r="1.7"/><circle cx="262.5" cy="127.5" r="1.7"/><circle cx="267.5" cy="127.5" r="1.7"/><circle cx="272.5" cy="127.5" r="1.7"/><circle cx="277.5" cy="127.5" r="1.7"/><circle cx="282.5" cy="127.5" r="1.7"/><circle cx="97.5" cy="132.5" r="1.7"/><circle cx="102.5" cy="132.5" r="1.7"/><circle cx="107.5" cy="132.5" r="1.7"/><circle cx="112.5" cy="132.5" r="1.7"/><circle cx="117.5" cy="132.5" r="1.7"/><circle cx="172.5" cy="132.5" r="1.7"/><circle cx="177.5" cy="132.5" r="1.7"/><circle cx="182.5" cy="132.5" r="1.7"/><circle cx="187.5" cy="132.5" r="1.7"/><circle cx="252.5" cy="132.5" r="1.7"/><circle cx="257.5" cy="132.5" r="1.7"/><circle cx="262.5" cy="132.5" r="1.7"/><circle cx="267.5" cy="132.5" r="1.7"/><circle cx="272.5" cy="132.5" r="1.7"/><circle cx="277.5" cy="132.5" r="1.7"/><circle cx="282.5" cy="132.5" r="1.7"/><circle cx="97.5" cy="137.5" r="1.7"/><circle cx="102.5" cy="137.5" r="1.7"/><circle cx="107.5" cy="137.5" r="1.7"/><circle cx="112.5" cy="137.5" r="1.7"/><circle cx="172.5" cy="137.5" r="1.7"/><circle cx="177.5" cy="137.5" r="1.7"/><circle cx="182.5" cy="137.5" r="1.7"/><circle cx="252.5" cy="137.5" r="1.7"/><circle cx="257.5" cy="137.5" r="1.7"/><circle cx="262.5" cy="137.5" r="1.7"/><circle cx="267.5" cy="137.5" r="1.7"/><circle cx="272.5" cy="137.5" r="1.7"/><circle cx="277.5" cy="137.5" r="1.7"/><circle cx="97.5" cy="142.5" r="1.7"/><circle cx="102.5" cy="142.5" r="1.7"/><circle cx="107.5" cy="142.5" r="1.7"/><circle cx="112.5" cy="142.5" r="1.7"/><circle cx="252.5" cy="142.5" r="1.7"/><circle cx="257.5" cy="142.5" r="1.7"/><circle cx="262.5" cy="142.5" r="1.7"/><circle cx="267.5" cy="142.5" r="1.7"/><circle cx="272.5" cy="142.5" r="1.7"/><circle cx="277.5" cy="142.5" r="1.7"/><circle cx="302.5" cy="142.5" r="1.7"/><circle cx="97.5" cy="147.5" r="1.7"/><circle cx="102.5" cy="147.5" r="1.7"/><circle cx="107.5" cy="147.5" r="1.7"/><circle cx="257.5" cy="147.5" r="1.7"/><circle cx="262.5" cy="147.5" r="1.7"/><circle cx="267.5" cy="147.5" r="1.7"/><circle cx="272.5" cy="147.5" r="1.7"/><circle cx="277.5" cy="147.5" r="1.7"/><circle cx="282.5" cy="147.5" r="1.7"/><circle cx="297.5" cy="147.5" r="1.7"/><circle cx="302.5" cy="147.5" r="1.7"/><circle cx="97.5" cy="152.5" r="1.7"/><circle cx="102.5" cy="152.5" r="1.7"/><circle cx="107.5" cy="152.5" r="1.7"/><circle cx="282.5" cy="152.5" r="1.7"/><circle cx="297.5" cy="152.5" r="1.7"/><circle cx="97.5" cy="157.5" r="1.7"/><circle cx="102.5" cy="157.5" r="1.7"/><circle cx="297.5" cy="157.5" r="1.7"/><circle cx="97.5" cy="162.5" r="1.7"/><circle cx="102.5" cy="162.5" r="1.7"/></g>
+      <g fill="#1d6a6a"><circle cx="60" cy="35" r="3.5"/><circle cx="69" cy="54" r="3.5"/><circle cx="181" cy="84" r="3.5"/><circle cx="166" cy="51" r="3.5"/></g>
+      <g><g><circle cx="204" cy="72" r="8.5" fill="#a83232"/><text x="204" y="75" font-family="Arial" font-size="9" font-weight="bold" fill="#fff" text-anchor="middle">1</text></g><g><circle cx="191" cy="43" r="8.5" fill="#a83232"/><text x="191" y="46" font-family="Arial" font-size="9" font-weight="bold" fill="#fff" text-anchor="middle">2</text></g><g><circle cx="298" cy="12" r="8.5" fill="#a83232"/><text x="298" y="15" font-family="Arial" font-size="9" font-weight="bold" fill="#fff" text-anchor="middle">3</text></g><g><circle cx="264" cy="88" r="8.5" fill="#a83232"/><text x="264" y="91" font-family="Arial" font-size="9" font-weight="bold" fill="#fff" text-anchor="middle">4</text></g><g><circle cx="50" cy="56" r="8.5" fill="#a83232"/><text x="50" y="59" font-family="Arial" font-size="9" font-weight="bold" fill="#fff" text-anchor="middle">5</text></g><g><circle cx="179" cy="61" r="8.5" fill="#a83232"/><text x="179" y="64" font-family="Arial" font-size="9" font-weight="bold" fill="#fff" text-anchor="middle">6</text></g><g><circle cx="159" cy="40" r="8.5" fill="#a83232"/><text x="159" y="43" font-family="Arial" font-size="9" font-weight="bold" fill="#fff" text-anchor="middle">7</text></g><g><circle cx="224" cy="80" r="8.5" fill="#a83232"/><text x="224" y="83" font-family="Arial" font-size="9" font-weight="bold" fill="#fff" text-anchor="middle">8</text></g><g><circle cx="91" cy="52" r="8.5" fill="#a83232"/><text x="91" y="55" font-family="Arial" font-size="9" font-weight="bold" fill="#fff" text-anchor="middle">9</text></g><g><circle cx="248" cy="68" r="8.5" fill="#a83232"/><text x="248" y="71" font-family="Arial" font-size="9" font-weight="bold" fill="#fff" text-anchor="middle">10</text></g><g><circle cx="23" cy="25" r="8.5" fill="#a83232"/><text x="23" y="28" font-family="Arial" font-size="9" font-weight="bold" fill="#fff" text-anchor="middle">11</text></g><g><circle cx="17" cy="125" r="8.5" fill="#a83232"/><text x="17" y="128" font-family="Arial" font-size="9" font-weight="bold" fill="#fff" text-anchor="middle">12</text></g></g>
     </svg>
     <div class="mapcap">Numbered pins mark stories 1&ndash;12; small dots mark the briefs. Pin 3 points to Voyager&nbsp;1, one light-day out.</div>
   </div>
@@ -269,6 +238,6 @@ body { background:#f6efdd; font-family:'Helvetica Neue', Arial, 'DejaVu Sans', s
   </div>
 </div>
 
-<div class="foot">All 28 stories are dated to their event date; major stories from 17 November and earlier are included at the editor&rsquo;s direction. Disputed claims are attributed. Six continents covered.<br>Sources: Reuters, AP, BBC, Al Jazeera, NASA, ESA, IMD, Fiji Met, FT, FAA, UKMTO, CSK, ICJ, PNA, Recording Academy, TradingView. Original drawings.</div>
+<div class="foot">All 28 stories are dated to their event date; major stories from 17 November and earlier are included at the editor&rsquo;s direction. Disputed claims are attributed. Six continents covered.<br><b>Sources:</b> Reuters, AP, BBC, Al Jazeera, NASA, ESA, IMD, Fiji Met, FT, FAA, UKMTO, CSK, ICJ, PNA, Recording Academy, TradingView. Original drawings.</div>
 
 </div></body></html>
